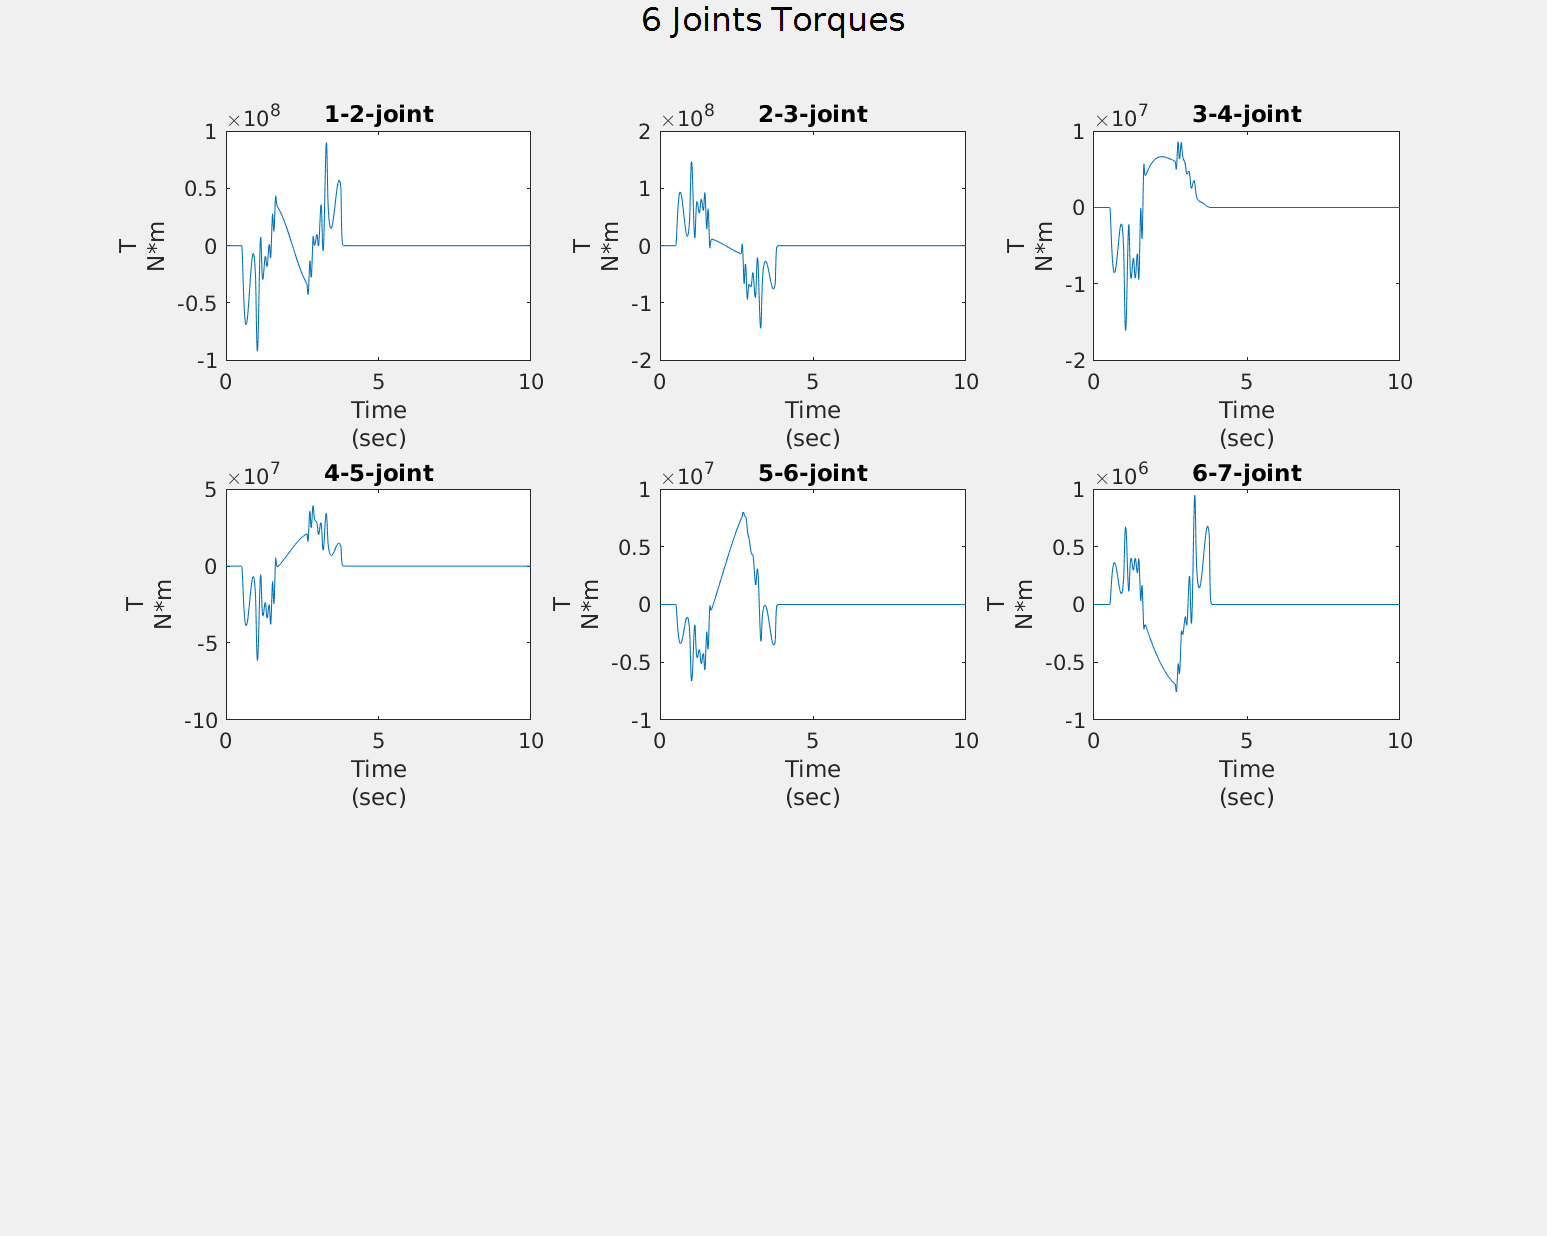
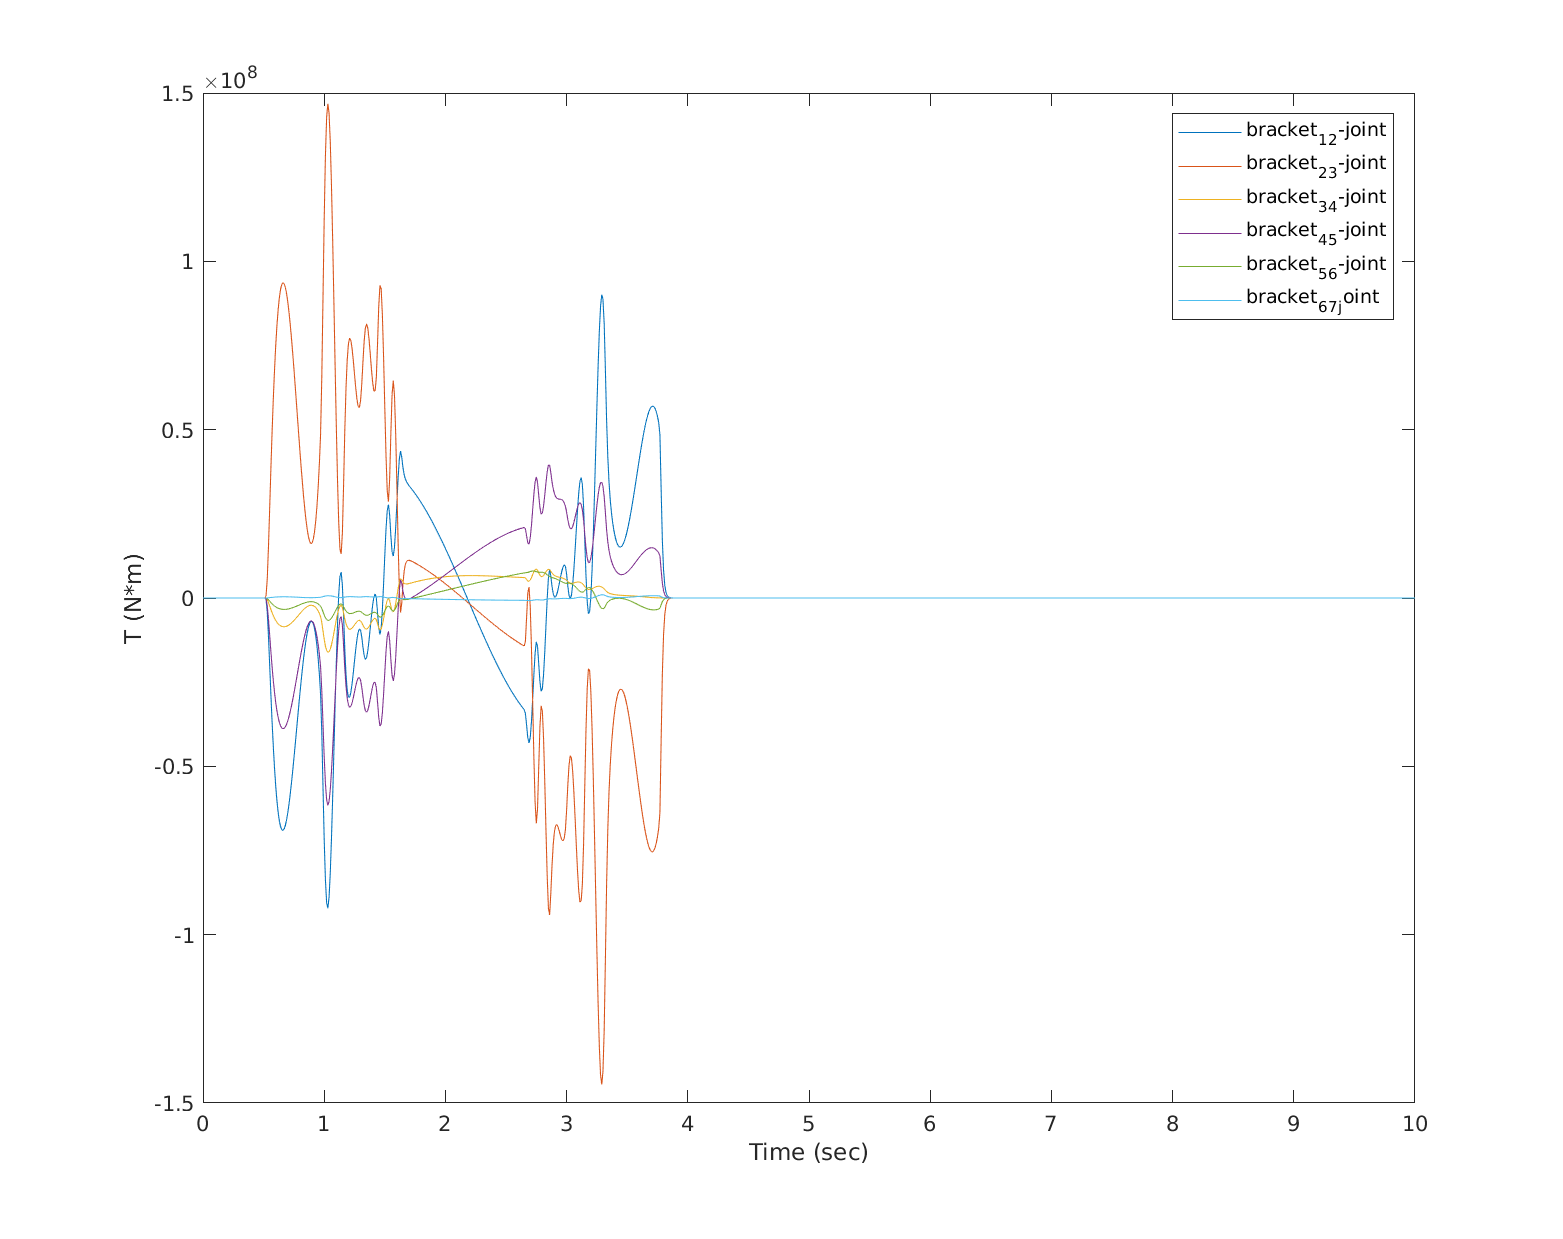
Add image and simulation result for trajectory_3

diff --git a/models/generate_all_in_one_torque_image.m b/models/generate_all_in_one_torque_image.m
@@ -18,53 +18,33 @@ time = bracket_1_2_joint_torque.bracket_1_2_joint_torque.Time;
 
 f = figure;
 f.Position = [0 0 1000 1000]; % resize the image
-p = uipanel('Parent', f, 'Title','6 Joints Torques','FontSize',16, 'BorderType', 'none');
-p.TitlePosition = 'centertop';
+title('Torqeu time series');
 
 % add plot for 1_2_joint
-subplot(3,3,1,'Parent', p);
 plot(time, bracket_1_2_val);
-title('1-2-joint');
-xlabel({'Time', '(sec)'});
-ylabel({'T','N*m'});
 
+hold on;
 % add plot for 2_3_joint
-subplot(3,3,2,'Parent', p);
 plot(time, bracket_2_3_val);
-title('2-3-joint');
-xlabel({'Time', '(sec)'});
-ylabel({'T','N*m'});
 
 % add plot for 3_4_joint
-subplot(3,3,3,'Parent', p);
 plot(time, bracket_3_4_val);
-title('3-4-joint');
-xlabel({'Time', '(sec)'});
-ylabel({'T','N*m'});
-
 
 % add plot for 4_5_joint
-subplot(3,3,4,'Parent', p);
 plot(time, bracket_4_5_val);
-title('4-5-joint');
-xlabel({'Time', '(sec)'});
-ylabel({'T','N*m'});
 
 % add plot for 5_6_joint
-subplot(3,3,5,'Parent', p);
 plot(time, bracket_5_6_val);
-title('5-6-joint');
-xlabel({'Time', '(sec)'});
-ylabel({'T','N*m'});
-
 
 % add plot for 6_7_joint
-subplot(3,3,6,'Parent', p);
 plot(time, bracket_6_7_val);
-title('6-7-joint');
-xlabel({'Time', '(sec)'});
-ylabel({'T','N*m'});
 
+% add legend
+legend('bracket_1_2-joint', 'bracket_2_3-joint', 'bracket_3_4-joint', 'bracket_4_5-joint', 'bracket_5_6-joint', 'bracket_6_7_joint');
+xlabel('Time (sec)');
+ylabel('T (N*m)');
+
+hold off;
 % all-6-images-in-one
 print(f, 'sample_trajectory_3/image/all-in-one-image-torque', '-dpng');
-clear;
+

diff --git a/models/generate_joint_angle_image.m b/models/generate_joint_angle_image.m
@@ -1,0 +1,38 @@
+% generate graph for angle of each joint w/ time 
+
+% load joint angle file
+sample_trajectory = readtable('sample_trajectory_3/sample_trajectory_3.txt','Delimiter', 'comma');
+
+% time array
+time_array = 0:0.01:0.01*549; % 0.01sec interval array of time ( 100hz)
+
+% bracket_1_2_joint angle array
+bracket_1_2_joint_angle_array =  table2array(sample_trajectory(:, 11));
+% bracket_2_3_joint angle array
+bracket_2_3_joint_angle_array =  table2array(sample_trajectory(:, 12));
+% bracket_3_4_joint angle array
+bracket_3_4_joint_angle_array =  table2array(sample_trajectory(:, 13));
+% bracket_4_5_joint angle array
+bracket_4_5_joint_angle_array =  table2array(sample_trajectory(:, 14));
+% bracket_5_6_joint angle array
+bracket_5_6_joint_angle_array =  table2array(sample_trajectory(:, 15));
+% bracket_6_7_joint angle array
+bracket_6_7_joint_angle_array =  table2array(sample_trajectory(:, 16));
+
+f = figure;
+plot(time_array, bracket_1_2_joint_angle_array);
+
+hold on;
+plot(time_array, bracket_2_3_joint_angle_array);
+plot(time_array, bracket_3_4_joint_angle_array);
+plot(time_array, bracket_4_5_joint_angle_array);
+plot(time_array, bracket_5_6_joint_angle_array);
+plot(time_array, bracket_6_7_joint_angle_array);
+
+legend('Location', 'eastoutside');
+legend('bracket_1_2-joint', 'bracket_2_3-joint', 'bracket_3_4-joint', 'bracket_4_5-joint', 'bracket_5_6-joint', 'bracket_6_7-joint');
+xlabel('Time (sec)');
+ylabel('Angle (rad)');
+hold off;
+
+print(f, 'sample_trajectory_3/image/all-in-one-image-angle', '-dpng');
